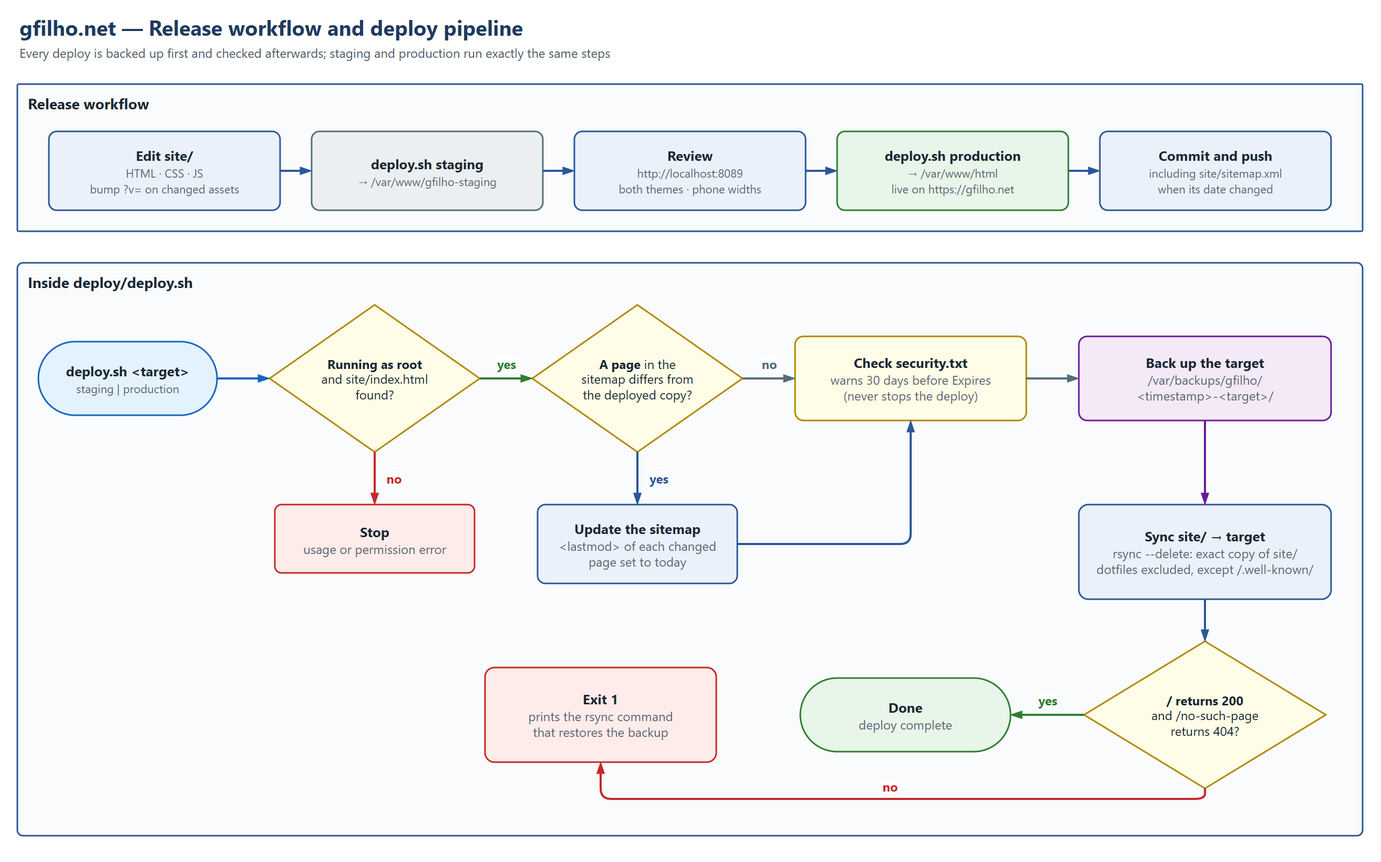
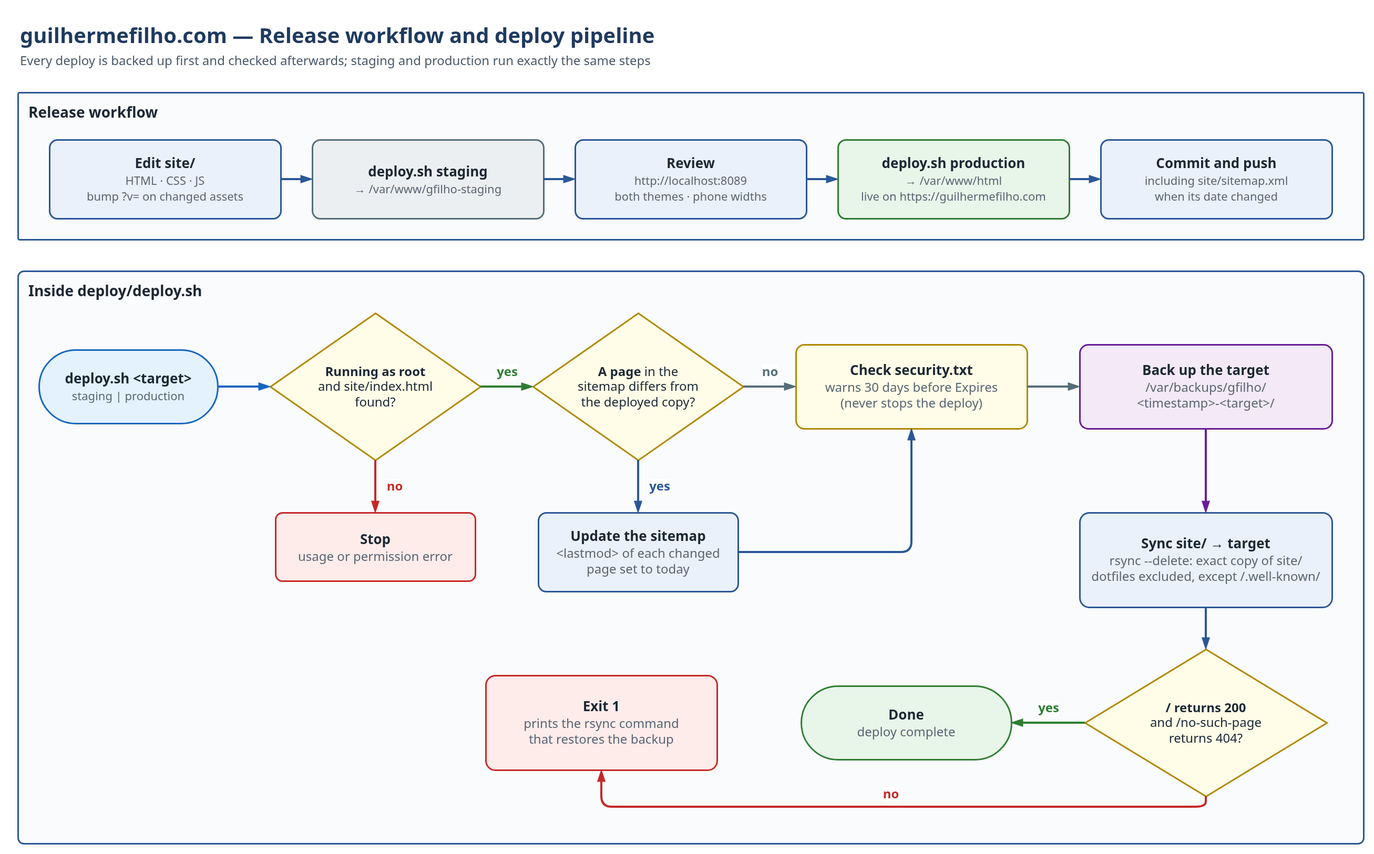
README and diagrams: hosting on Proxmox LXC 107, Portugal-only access

Changed region(s): [[0.0, 0.0, 1.0, 0.369], [0.0, 0.3383, 1.0, 1.0], [0.3409, 0.7688, 0.9606, 0.9533]]

diff --git a/README.md b/README.md
@@ -1,19 +1,19 @@
 <p align="center"><img src="site/favicon.svg" alt="" width="72" height="72"></p>
 
-<h1 align="center">gfilho.net</h1>
+<h1 align="center">guilhermefilho.com</h1>
 
-<p align="center">Source of <a href="https://gfilho.net/">gfilho.net</a>, the personal site of Guilherme Filho:<br>platform and infrastructure engineer working on hybrid cloud and automation.</p>
+<p align="center">Source of <a href="https://guilhermefilho.com/">guilhermefilho.com</a>, the personal site of Guilherme Filho:<br>platform and infrastructure engineer working on hybrid cloud and automation.</p>
 
-A static, single-page site: plain HTML, CSS and two small JavaScript files. No framework, no build step, no analytics, no cookies set by the site and no third-party requests at runtime. It is served by nginx inside WSL 2 and published through a Cloudflare Tunnel, so the origin is never exposed to the internet.
+A static, single-page site: plain HTML, CSS and two small JavaScript files. No framework, no build step, no analytics, no cookies set by the site and no third-party requests at runtime. It is served by nginx in an LXC container (CT 107) on a Proxmox VE host and published through a Cloudflare Tunnel, so the origin is never exposed to the internet. Only visitors in Portugal (and verified search and link-preview bots) are let through.
 
 | | |
 |---|---|
-| **Live site** | <https://gfilho.net/> |
-| **Stack** | HTML5, CSS, vanilla JavaScript · nginx 1.28 (WSL 2, Ubuntu 26.04 LTS) · Cloudflare Tunnel |
-| **Security** | Strict same-origin CSP, security headers on every response, loopback-only origin, HTTPS-only canonical host, [security.txt](https://gfilho.net/.well-known/security.txt) |
+| **Live site** | <https://guilhermefilho.com/> |
+| **Stack** | HTML5, CSS, vanilla JavaScript · nginx 1.26 (Debian 13 LXC on Proxmox VE) · Cloudflare Tunnel |
+| **Security** | Strict same-origin CSP, security headers on every response, loopback-only origin, HTTPS-only canonical host, Portugal-only access at the edge, [security.txt](https://guilhermefilho.com/.well-known/security.txt) |
 | **Quality** | W3C-valid HTML and CSS · WCAG 2.2 AA · Lighthouse 100 for accessibility, best practices and SEO |
 
-<p align="center"><img src="site/og-image.png" alt="gfilho.net social preview" width="420"></p>
+<p align="center"><img src="site/og-image.png" alt="guilhermefilho.com social preview" width="420"></p>
 
 ## Contents
 
@@ -43,23 +43,23 @@ A static, single-page site: plain HTML, CSS and two small JavaScript files. No f
 
 ## 2. Architecture
 
-![gfilho.net hosting architecture](docs/architecture/gfilho-hosting-architecture.png)
+![guilhermefilho.com hosting architecture](docs/architecture/gfilho-hosting-architecture.png)
 
 *Figure 1. Hosting architecture (source: [`gfilho-hosting-architecture.drawio`](docs/architecture/gfilho-hosting-architecture.drawio))*
 
-Visitors reach Cloudflare over HTTPS. Cloudflare terminates TLS and forwards the request through a named tunnel to `cloudflared`, which runs as a systemd service inside WSL and keeps an **outbound-only** connection to Cloudflare. `cloudflared` passes the request to nginx on `localhost:8088`. nginx listens on loopback only, so the origin cannot be reached from the network, even from the local LAN.
+Visitors reach Cloudflare over HTTPS. Cloudflare terminates TLS and forwards the request through a named tunnel to `cloudflared`, which runs as a systemd service inside CT 107 and keeps an **outbound-only** connection to Cloudflare. `cloudflared` passes the request to nginx on `localhost:8088`. nginx listens on loopback only, so the origin cannot be reached from the network, even from the local LAN.
 
 | Component | Where | Responsibility |
 |---|---|---|
-| Cloudflare edge | Cloudflare | DNS (proxied records), edge certificate, TLS 1.2+, HSTS, Always Use HTTPS, static asset cache, email obfuscation. |
-| Tunnel ingress | Cloudflare | Routes `gfilho.net` and `www.gfilho.net` to `http://localhost:8088`; every other host name gets a 404. |
-| `cloudflared` | WSL, systemd | Holds the tunnel open. No inbound port is needed on the host or the router. |
+| Cloudflare edge | Cloudflare | DNS (proxied records), edge certificate, TLS 1.2+, HSTS (6 months, no subdomains, no preload), Always Use HTTPS, static asset cache, email obfuscation, and a custom WAF rule that blocks requests from outside Portugal unless Cloudflare verified the client as a known bot: `(ip.src.country ne "PT" and not cf.client.bot)`. |
+| Tunnel ingress | CT 107, `/etc/cloudflared/config.yml` | Locally managed tunnel `gfilho-web`; routes `guilhermefilho.com` and `www.guilhermefilho.com` to `http://localhost:8088`; every other host name gets a 404. |
+| `cloudflared` | CT 107, systemd | Holds the tunnel open. No inbound port is needed on the host or the router. |
 | nginx, production | `127.0.0.1:8088` | Serves `/var/www/html`, the live site. |
 | nginx, staging | `127.0.0.1:8089` | Serves `/var/www/gfilho-staging` for local previews; never published. |
 | nginx, status | `127.0.0.1:8090` | `stub_status` counters for the monitoring stack; loopback only. |
-| `deploy/deploy.sh` | WSL | Publishes `site/` to staging or production, with a backup and a smoke test. |
+| `deploy/deploy.sh` | CT 107 | Publishes `site/` to staging or production, with a backup and a smoke test. |
 | Backups | `/var/backups/gfilho` | One snapshot of the target per deploy (and of the nginx configuration per install), readable by root only. |
-| Monitoring | WSL, Docker, loopback ports | Prometheus, Loki, Alloy, exporters and Grafana on `http://localhost:3000` ([9. Monitoring](#9-monitoring)). |
+| Monitoring | CT 107, Docker, loopback ports | Prometheus, Loki, Alloy, exporters and Grafana; Grafana is published on the home network only, as `https://grafana.lab.guilhermefilho.com` through the Nginx Proxy Manager ([9. Monitoring](#9-monitoring)). |
 | Source repository | GitHub | `main` is protected by a ruleset (no deletion, no force push); secret scanning, push protection and private vulnerability reporting are on. |
 
 ## 3. Request handling
@@ -70,7 +70,7 @@ Visitors reach Cloudflare over HTTPS. Cloudflare terminates TLS and forwards the
 
 Both server blocks include the same snippet, [`deploy/nginx/gfilho-common.conf`](deploy/nginx/gfilho-common.conf), so staging behaves exactly like production:
 
-1. **Canonical host.** Requests for `www.gfilho.net`, or requests that reached Cloudflare over plain HTTP (the `CF-Visitor` header carries `"scheme":"http"`), get a `301` to `https://gfilho.net` with the same path.
+1. **Canonical host.** Requests for `www.guilhermefilho.com`, or requests that reached Cloudflare over plain HTTP (the `CF-Visitor` header carries `"scheme":"http"`), get a `301` to `https://guilhermefilho.com` with the same path.
 2. **Hidden files.** Dotfiles (except `/.well-known/`), editor leftovers and backup files (`.bak`, `.old`, `.orig`, `.swp`, `~` and similar) always return `404`, even if one ends up in the web root by mistake.
 3. **Directories.** A directory without the trailing slash (`/cases/self-healing`) gets a **relative** `301` to `/cases/self-healing/` (`absolute_redirect off`, so nginx never sends its internal `:8088` port). `/cases/` itself redirects to `/#projects`, and any other directory without an `index.html` (`/assets/`, `/.well-known/`) gets the 404 page instead of nginx's default 403.
 4. **Static files.** Anything else is served from the web root with `try_files`; a missing file gets the custom `/404.html` page with a real `404` status. Missing files are not written to `error.log` (`log_not_found off`): bots probing for WordPress or `.env` files would bury real errors. They stay in the access log and on the dashboard's Top 404s.
@@ -120,7 +120,7 @@ Cache lifetimes depend on the path:
 │   ├── nginx/                   Server blocks, security headers, cache rules, redirects, stub_status
 │   └── systemd/                 nginx drop-in: restart automatically if it dies
 ├── monitoring/                  Prometheus, Loki, Alloy, exporters and Grafana (Docker Compose)
-│   ├── install-monitoring.sh    Install or update the stack and reload what changed (run as root in WSL)
+│   ├── install-monitoring.sh    Install or update the stack and reload what changed (run as root in CT 107)
 │   ├── grafana/build-dashboard.mjs  Source of the dashboard; writes grafana/dashboards/gfilho.json
 │   ├── prometheus/rules.test.yml    promtool unit tests for the alert rules and dashboard expressions
 │   └── tests/                   check-queries.py, check-values.py, query-timings.py: validate the dashboard
@@ -138,10 +138,10 @@ Cache lifetimes depend on the path:
 
 | Requirement | Used for |
 |---|---|
-| WSL 2 with Ubuntu 26.04 LTS, nginx, `rsync` and `curl` | Serving and deploying the site (run the scripts as root). The WSL distribution is still called `Ubuntu-24.04`: it was upgraded in place. |
-| Docker Engine with the Compose plugin (inside WSL) | The local monitoring stack ([9. Monitoring](#9-monitoring)). Not needed to serve the site. |
-| `cloudflared` with a named tunnel whose ingress points at `http://localhost:8088`, and `edge-ip-version: "4"` in `/etc/cloudflared/config.yml` (the IPv6 route of this PC drops now and then, which made tunnel connections fail with "network is unreachable"; visitors still reach the site over IPv6 through Cloudflare) | Publishing production. Not needed to work on staging. |
-| Google Chrome on Windows | Regenerating images (`tools/build-images.ps1`). |
+| LXC 107 (`gfilho-web`, 10.10.10.26) on Proxmox VE: Debian 13, unprivileged, `nesting=1,keyctl=1`, with nginx, `rsync`, `curl`, `git` and `nftables`. The repository is a host folder (`/srv/gfilho-website`) mounted at `/opt/gfilho-website`, pushed with the write deploy key `gfilho-ct107-write` | Serving and deploying the site (run the scripts as root inside the CT: `pct enter 107`). |
+| Docker Engine with the Compose plugin (inside CT 107) | The monitoring stack ([9. Monitoring](#9-monitoring)) and the throwaway containers that regenerate images. Not needed to serve the site. |
+| `cloudflared` with the locally managed tunnel `gfilho-web` (`/etc/cloudflared/config.yml`: ingress for `guilhermefilho.com` and `www` to `http://localhost:8088`, metrics on `127.0.0.1:20241`; credentials in `/etc/cloudflared/<tunnel-id>.json`, root only) | Publishing production. Not needed to work on staging. |
+| Docker (in CT 107), or Google Chrome on Windows | Regenerating images (see [7](#7-images-and-diagrams)). |
 | A code editor; optionally VS Code with the Draw.io Integration extension (`hediet.vscode-drawio`) | Editing the page and the diagrams. |
 
 ### 5.2 Release workflow
@@ -150,7 +150,7 @@ Cache lifetimes depend on the path:
 
 *Figure 3. Release workflow and deploy pipeline (source: [`gfilho-deploy-pipeline.drawio`](docs/architecture/gfilho-deploy-pipeline.drawio))*
 
-Edit the files under `site/`, preview them on staging, then publish. From WSL, as root, in the repository folder:
+Edit the files under `site/`, preview them on staging, then publish. Inside CT 107 (`pct enter 107`), as root, in `/opt/gfilho-website`:
 
 ```bash
 # one-time, and again after changing deploy/nginx/*
@@ -159,7 +159,7 @@ bash deploy/install-nginx.sh
 # preview at http://localhost:8089/
 bash deploy/deploy.sh staging
 
-# publish to https://gfilho.net/
+# publish to https://guilhermefilho.com/
 bash deploy/deploy.sh production
 ```
 
@@ -207,7 +207,15 @@ Snapshots ending in `-nginx` hold the nginx configuration (`sites-available`, `s
 
 **Logo.** The source is `site/favicon.svg`. The same artwork is inlined as the `#logo` symbol at the top of `index.html` (used in the header and footer), so keep the two in sync. `tools/logo-full-bleed.svg` is the edge-to-edge variant used for `apple-touch-icon.png`, because iOS rounds the corners itself.
 
-**Generated images.** `og-image.png` (the 1200×630 social preview), the PNG icons and `favicon.ico` are generated from `tools/*.html`. On Windows with Google Chrome installed:
+**Generated images.** `og-image.png` (the 1200×630 social preview), the PNG icons and `favicon.ico` are generated from `tools/*.html` with headless Chrome. In CT 107, the social preview is rendered in a throwaway container:
+
+```bash
+docker run --rm -v /opt/gfilho-website:/w debian:trixie bash -c 'apt-get update -qq && apt-get install -y -qq chromium >/dev/null && \
+  chromium --headless=new --no-sandbox --disable-gpu --hide-scrollbars --allow-file-access-from-files --default-background-color=00000000 \
+  --force-device-scale-factor=1 --window-size=1200,630 --screenshot=/w/site/og-image.png --virtual-time-budget=3000 file:///w/tools/og-image.html'
+```
+
+The full set (icons and `favicon.ico` too) is still built on Windows with Google Chrome installed:
 
 ```powershell
 powershell -ExecutionPolicy Bypass -File tools\build-images.ps1
@@ -215,34 +223,34 @@ powershell -ExecutionPolicy Bypass -File tools\build-images.ps1
 
 After regenerating, bump `?v=` on the icon, manifest and `og:image` URLs in `index.html` and `404.html` (and on the icons in `site.webmanifest`), so browsers and link previews fetch the new files.
 
-**Diagrams.** The figures in this README are drawn in [draw.io](https://www.drawio.com/). The `.drawio` files in `docs/architecture/` are the sources; open them in draw.io or in VS Code with the Draw.io Integration extension. After editing, export a PNG next to the source with the same name (*File › Export as › PNG*, zoom 200 %, border 16, white background) and commit both. When the nginx configuration or `deploy.sh` changes, update the matching diagram in the same commit.
+**Diagrams.** The figures in this README are drawn in [draw.io](https://www.drawio.com/). The `.drawio` files in `docs/architecture/` are the sources; open them in draw.io or in VS Code with the Draw.io Integration extension. After editing, export a PNG next to the source with the same name (*File › Export as › PNG*, zoom 200 %, border 16, white background) and commit both. Without draw.io desktop, export in CT 107 with the `rlespinasse/drawio-desktop-headless` image (`-x -f png -s 2 -b 16`) from a temporary copy in which `fontFamily=Segoe UI` is replaced by `fontFamily=Noto Sans`: Segoe UI does not exist on Linux, and Chromium falls back to a serif font instead. When the nginx configuration or `deploy.sh` changes, update the matching diagram in the same commit.
 
 ## 8. Checking a release
 
 Quick checks after a production deploy, from any machine:
 
 ```bash
-# canonical host and redirects: expect 200, then 301 to https://gfilho.net/ twice
-curl -sI https://gfilho.net/ | head -n 1
-curl -sI http://gfilho.net/ | grep -iE '^(HTTP|location)'
-curl -sI https://www.gfilho.net/ | grep -iE '^(HTTP|location)'
+# canonical host and redirects: expect 200, then 301 to https://guilhermefilho.com/ twice
+curl -sI https://guilhermefilho.com/ | head -n 1
+curl -sI http://guilhermefilho.com/ | grep -iE '^(HTTP|location)'
+curl -sI https://www.guilhermefilho.com/ | grep -iE '^(HTTP|location)'
 
 # security headers
-curl -sI https://gfilho.net/ | grep -iE 'content-security-policy|x-content-type|x-frame|referrer-policy|permissions-policy|cross-origin-opener|strict-transport'
+curl -sI https://guilhermefilho.com/ | grep -iE 'content-security-policy|x-content-type|x-frame|referrer-policy|permissions-policy|cross-origin-opener|strict-transport'
 
 # directory without the trailing slash: expect a relative Location, /cases/self-healing/
-curl -sI https://gfilho.net/cases/self-healing | grep -i '^location'
+curl -sI https://guilhermefilho.com/cases/self-healing | grep -i '^location'
 
 # custom 404 and blocked files: expect 404 for both
-curl -s -o /dev/null -w '%{http_code}\n' https://gfilho.net/no-such-page
-curl -s -o /dev/null -w '%{http_code}\n' https://gfilho.net/.git/config
+curl -s -o /dev/null -w '%{http_code}\n' https://guilhermefilho.com/no-such-page
+curl -s -o /dev/null -w '%{http_code}\n' https://guilhermefilho.com/.git/config
 ```
 
-For a full audit, run [Lighthouse](https://developer.chrome.com/docs/lighthouse) (Chrome DevTools › Lighthouse, or `npx lighthouse https://gfilho.net/`), and validate the page with the [W3C HTML](https://validator.w3.org/nu/?doc=https%3A%2F%2Fgfilho.net%2F) and [CSS](https://jigsaw.w3.org/css-validator/validator?uri=https%3A%2F%2Fgfilho.net%2F) validators.
+For a full audit, run [Lighthouse](https://developer.chrome.com/docs/lighthouse) (Chrome DevTools › Lighthouse, or `npx lighthouse https://guilhermefilho.com/`), and validate the page with the [W3C HTML](https://validator.w3.org/nu/?doc=https%3A%2F%2Fguilhermefilho.com%2F) and [CSS](https://jigsaw.w3.org/css-validator/validator?uri=https%3A%2F%2Fguilhermefilho.com%2F) validators.
 
 ## 9. Monitoring
 
-A local stack watches the site, the tunnel and the WSL host, and shows it all on one Grafana dashboard. Grafana opens at **<http://localhost:3000>** on this PC, read-only and without a login. The admin password is generated on the first install and is stored only in `/etc/gfilho-monitoring/grafana.env` (`sudo cat` it in WSL).
+A stack inside CT 107 watches the site, the tunnel and the container, and shows it all on one Grafana dashboard. Grafana opens at **<https://grafana.lab.guilhermefilho.com>** from the home network (it is also a tile on the Homarr board), read-only and without a login. Grafana listens on `10.10.10.26:3000`, and nftables (`monitoring/nftables/gfilho.nft`, installed by the installer before the containers start) only lets the Nginx Proxy Manager (`10.10.10.10`) connect; every other port of the stack stays on loopback. The admin password is generated on the first install and is stored only in `/etc/gfilho-monitoring/grafana.env` (`cat` it as root in the CT).
 
 ```bash
 # install or update: copies monitoring/ to /opt/gfilho-monitoring, starts the containers and
@@ -255,39 +263,39 @@ bash monitoring/install-monitoring.sh
 | Prometheus | 9091 | Metrics, 30 days; alert rules in `monitoring/prometheus/rules.yml` |
 | blackbox-exporter | 9115 | Probes of the public pages (every 60 s), the origin and staging, the 301 redirects and DNS |
 | nginx-prometheus-exporter | 9113 | Connections and requests from nginx `stub_status` (`127.0.0.1:8090`) |
-| node-exporter | 9100 | CPU, memory, pressure (PSI), disk (the WSL disk and the Windows drive C: that holds it), network, systemd units, and the custom `gfilho_*` metrics |
-| `gfilho-metrics.timer` | — | Every 2 min: security.txt expiry, last deploy, backups, WSL offline time, pending updates, component versions |
+| node-exporter | 9100 | CPU, memory, pressure (PSI), disk (the CT 107 disk), network, systemd units, and the custom `gfilho_*` metrics |
+| `gfilho-metrics.timer` | — | Every 2 min: security.txt expiry, last deploy, backups, CT 107 offline time, pending updates, component versions |
 | `cloudflared` | 20241 | Tunnel connections, requests, errors and QUIC latency (built into cloudflared) |
 | Loki + Alloy | 3100 | nginx access and error logs, and the journal of nginx, cloudflared and logrotate; 14 days |
-| Grafana | 3000 | The dashboard `gfilho.net — Monitoring` (the home page), in the `gfilho.net` folder |
+| Grafana | 10.10.10.26:3000 (NPM only) | The dashboard `guilhermefilho.com — Monitoring` (the home page), in the `guilhermefilho.com` folder |
 
 The dashboard is provisioned from a file and read-only in Grafana. It is one page, most urgent first; every section is a row you can fold away, and only Logs starts folded. Grafana queries only the panels in view (measured: 21 Prometheus queries and no Loki query per refresh at the top of the page), so the sections further down cost nothing until you scroll to them. Refresh: 1 minute.
 
 | Section | Question it answers | What it shows |
 |---|---|---|
-| *(top)* | Is the site reachable, fast and healthy right now? | Status strip (public site, origin, tunnel links, response time, p95, availability, monitored share of the range, alerts firing) · lifecycle strip (TLS and security.txt expiry, last deploy, WSL offline 24 h and 7 d) · one uptime line per check · alerts now and alert history (pending and firing) |
+| *(top)* | Is the site reachable, fast and healthy right now? | Status strip (public site, origin, tunnel links, response time, p95, availability, monitored share of the range, alerts firing) · lifecycle strip (TLS and security.txt expiry, last deploy, host offline 24 h and 7 d) · one uptime line per check · alerts now and alert history (pending and firing) |
 | Latency & traffic | Is it slow, is it failing? | Public response time (log scale) · traffic through the tunnel by status class with proxy errors |
 | Visitors & security | Who uses the site, what fails, what probes it? | Visitor totals (page views, requests, data served, 404, 5xx, 5xx share, log pipeline) · request sources (visitors, probes, tools, local previews, staging, against the nginx total) · responses by status class · error share · data served · top pages, 404s and referrers · clients · status mix · unusual requests |
-| Services | Are nginx, cloudflared, Docker and the metrics timer running? | Services now (state, failed units, restarts, WSL uptime) and their history |
+| Services | Are nginx, cloudflared, Docker and the metrics timer running? | Services now (state, failed units, restarts, CT uptime) and their history |
 | Cloudflare Tunnel | Is the edge link healthy? | Links, edge RTT, registrations, proxy errors · connected data centres · responses by status code · edge link |
 | Web server & probes | Where does the time go? | nginx vs tunnel request rate · nginx connections · probe time by phase |
-| Host · WSL | Is the VM short of something? | CPU & memory, memory, pressure (PSI), disk space (WSL disk and C:), network |
+| Host · LXC 107 | Is the container short of something? | CPU & memory, memory, pressure (PSI), disk space, network |
 | Publishing & monitoring | Are deploys, backups and the monitoring itself fine? | Publishing & backups · monitoring pipeline · maintenance · installed versions |
 | Logs *(folded)* | What exactly happened? | nginx errors, service warnings, recent visitor requests, unusual requests (raw lines) |
 
 How to read it:
 
 - **States.** `UP`/`DOWN` come from the probes; `UNKNOWN` means Prometheus cannot reach the probe exporter, and `NO DATA` (grey) means there is no sample at all. A missing value is never shown as zero or as healthy.
-- **Availability** counts only the time monitoring was running; **Monitored** says how much of the selected range that was. Both are needed: with WSL off there are no probes at all.
-- **p95** is the 95th percentile of the probe samples (one a minute, from this PC through Cloudflare), not the latency of real visitors. nginx records `request_time` for real requests, but it is 0 ms for 99 % of them (static files), so it is not charted.
+- **Availability** counts only the time monitoring was running; **Monitored** says how much of the selected range that was. Both are needed: with CT 107 off there are no probes at all.
+- **p95** is the 95th percentile of the probe samples (one a minute, from CT 107 on the home network through Cloudflare), not the latency of real visitors. nginx records `request_time` for real requests, but it is 0 ms for 99 % of them (static files), so it is not charted.
 - **Latency colours** follow the web.dev TTFB guidance: good up to 0.8 s, poor above 1.8 s. The probe time includes DNS, connect, TLS and the whole response, so it is never faster than TTFB.
 - **Request rates** are in requests per hour everywhere, so the nginx, tunnel and log figures compare directly.
 - **Visitors** are the lines of the production access log without the monitoring probes (User-Agent `gfilho-monitor`), automated tools (curl, scripts, headless browsers, the self-audit link checker) and local previews. A page view is a visitor request to `/` or `/cases/*/` answered `200` (or `304` from the browser cache). **Clients** splits page views by User-Agent into Bots & tools, Browsers and Unclassified (exclusive groups; a scanner can pretend to be a browser, so Browsers is an upper bound for people). The logs do not record visitor IP addresses, so there are no "unique visitor" figures.
-- **Annotations** (toggles at the top): deploys, WSL starts (the 10 minutes after each boot) and tunnel (re)registrations.
+- **Annotations** (toggles at the top): deploys, host starts (the 10 minutes after each CT boot) and tunnel (re)registrations.
 
-**Alerts.** `monitoring/prometheus/rules.yml` has 16 rules. Besides the site, tunnel and host rules, `ScrapeTargetDown` and `CustomMetricsStale` fire when the data an alert depends on stops arriving (a rule such as `SiteDown` cannot fire without probe results), and `HostDriveAlmostFull` watches C:, the real limit of the WSL virtual disk. There is no Alertmanager: the alert list at the top of the dashboard is the notification.
+**Alerts.** `monitoring/prometheus/rules.yml` has 15 rules. Besides the site, tunnel and host rules, `ScrapeTargetDown` and `CustomMetricsStale` fire when the data an alert depends on stops arriving (a rule such as `SiteDown` cannot fire without probe results). There is no Alertmanager: the alert list at the top of the dashboard is the notification.
 
-**Changing the dashboard.** Edit `monitoring/grafana/build-dashboard.mjs`, regenerate the JSON with `node monitoring/grafana/build-dashboard.mjs monitoring/grafana/dashboards` (the build stops on overlapping panels, duplicate titles or ids, unknown panel types and localhost links), and run the installer again. Then check it inside WSL, with the stack running:
+**Changing the dashboard.** Edit `monitoring/grafana/build-dashboard.mjs`, regenerate the JSON with `node monitoring/grafana/build-dashboard.mjs monitoring/grafana/dashboards` (the build stops on overlapping panels, duplicate titles or ids, unknown panel types and localhost links), and run the installer again. Then check it inside CT 107, with the stack running (the tests talk to Grafana on `10.10.10.26:3000`):
 
 ```bash
 # alert rules and the trickier dashboard expressions, against synthetic data
@@ -300,13 +308,13 @@ sudo python3 monitoring/tests/check-values.py
 python3 monitoring/tests/query-timings.py /tmp/timings.json
 ```
 
-**When the PC is off.** The stack runs inside the same WSL as the site, so it can only show that the site was down **after** WSL comes back (the uptime line has a gap, *Monitored* drops below 100 %, *WSL offline* grows). The probes also leave from this PC, so a local network fault looks like an outage. Nothing here can send a notification while the PC is off. For that, add an external uptime monitor for `https://gfilho.net/` (for example a free HTTP monitor with email alerts) and the tunnel health notification in Cloudflare.
+**When the host is down.** The stack runs inside the same container as the site, so it can only show that the site was down **after** CT 107 comes back (the uptime line has a gap, *Monitored* drops below 100 %, *Host offline* grows). The probes leave from the home network in Portugal, so a local network fault looks like an outage, and they pass the Portugal-only rule. Nothing here can send a notification while the Proxmox host or the home connection is down. For that, add an external uptime monitor for `https://guilhermefilho.com/` (with a monitor located in Portugal, or an exception for it in the WAF rule) and the tunnel health notification in Cloudflare.
 
-The containers restart with Docker when WSL starts. To stop the stack: `docker compose -f /opt/gfilho-monitoring/docker-compose.yml down` (add `-v` to delete the stored metrics and logs).
+The containers restart with Docker when CT 107 starts (`onboot: 1`). To stop the stack: `docker compose -f /opt/gfilho-monitoring/docker-compose.yml down` (add `-v` to delete the stored metrics and logs).
 
 ## 10. Security
 
-Report security problems privately, as described in the [security policy](.github/SECURITY.md) (the contact details are also in [`/.well-known/security.txt`](https://gfilho.net/.well-known/security.txt)). Please do not open public issues for them.
+Report security problems privately, as described in the [security policy](.github/SECURITY.md) (the contact details are also in [`/.well-known/security.txt`](https://guilhermefilho.com/.well-known/security.txt)). Please do not open public issues for them.
 
 ## 11. Licenses
 
